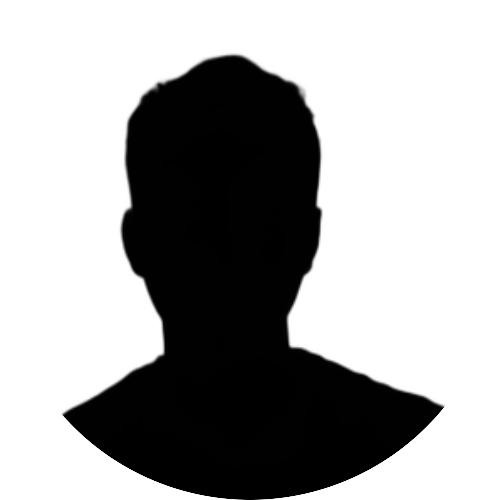
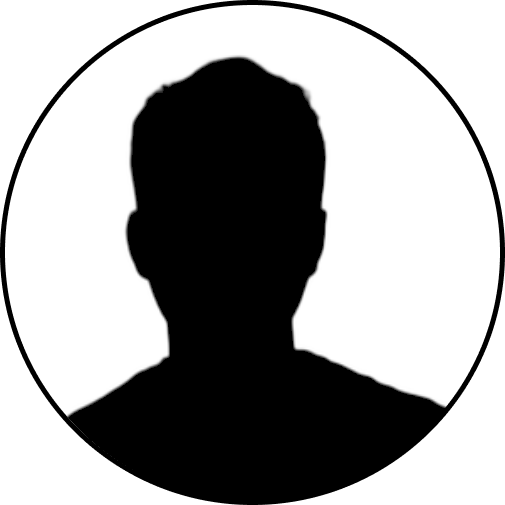
finished about section

diff --git a/src/components/About.jsx b/src/components/About.jsx
@@ -1,11 +1,33 @@
 import React from "react"
+import darkProfile from "../images/profile-pic-dark.png"
 
 function About() {
   return (
-    <div className="font-mono text-white w-full relative">
-      <h1 className="text-white text-5xl">About me</h1>
-      <h1>Hello</h1>
-      <img href="../images/profile-pic-dark.png"></img>
+    <div className="font-mono py-12 md:py-16 lg:py-20 text-white w-full relative">
+      <h1 className="text-white text-3xl md:text-4xl lg:text-5xl mb-10 md:mb-15 lg:mb-20">
+        About me
+      </h1>
+      <div className="w-full flex items-center flex-col lg:flex-row">
+        <img className="h-60 lg:mr-20 mb-10 lg:mb-0" src={darkProfile}></img>
+        <p>
+          I come from a mixed background—I was born in the United States but my
+          father is from the Netherlands and my mother is from Egypt. Growing up
+          I moved around a lot, living in five different countries by the time I
+          finished school. <br></br>
+          <br></br> In July of last year, I graduated with an integrated masters
+          in mechanical engineering from the University of Bath receiving
+          first-class honours—my passion, however, lies in software. Programming
+          gives me the ability to bring my ideas into reality. I find it to be a
+          far more exciting field than mechanical engineering, which often moves
+          more slowly. <br></br>
+          <br></br>I am currently looking for a job within the software
+          development sector. I'm unexperienced—but I have a relentless
+          willingness and desire to learn.<br></br>
+          <br></br>Outside of work, I love exercising and staying healthy—I am
+          an avid runner and sports player. I also love to read and work on
+          side-projects.
+        </p>
+      </div>
     </div>
   )
 }

diff --git a/src/components/header.jsx b/src/components/header.jsx
@@ -6,7 +6,7 @@ import { Link } from "gatsby"
 const Header = () => {
   const [open, setOpen] = useState(false)
   return (
-    <div className="w-full cursor-pointer fixed px-8 md:px-10 lg:px-12 py-6 z-100 bg-black select-none top-0 left-0 right-0 flex justify-between items-center">
+    <div className="w-full cursor-pointer fixed px-8 md:px-10 lg:px-12 py-6 z-50 bg-black select-none top-0 left-0 right-0 flex justify-between items-center">
       <Link to="/">
         <Logo />
       </Link>

diff --git a/src/images/logo.jsx b/src/images/logo.jsx
@@ -3,8 +3,8 @@ import React from "react"
 export default function Logo() {
   return (
     <svg
-      width="75"
-      height="36"
+      width="68"
+      height="33"
       viewBox="0 0 150 72"
       fill="none"
       xmlns="http://www.w3.org/2000/svg"
